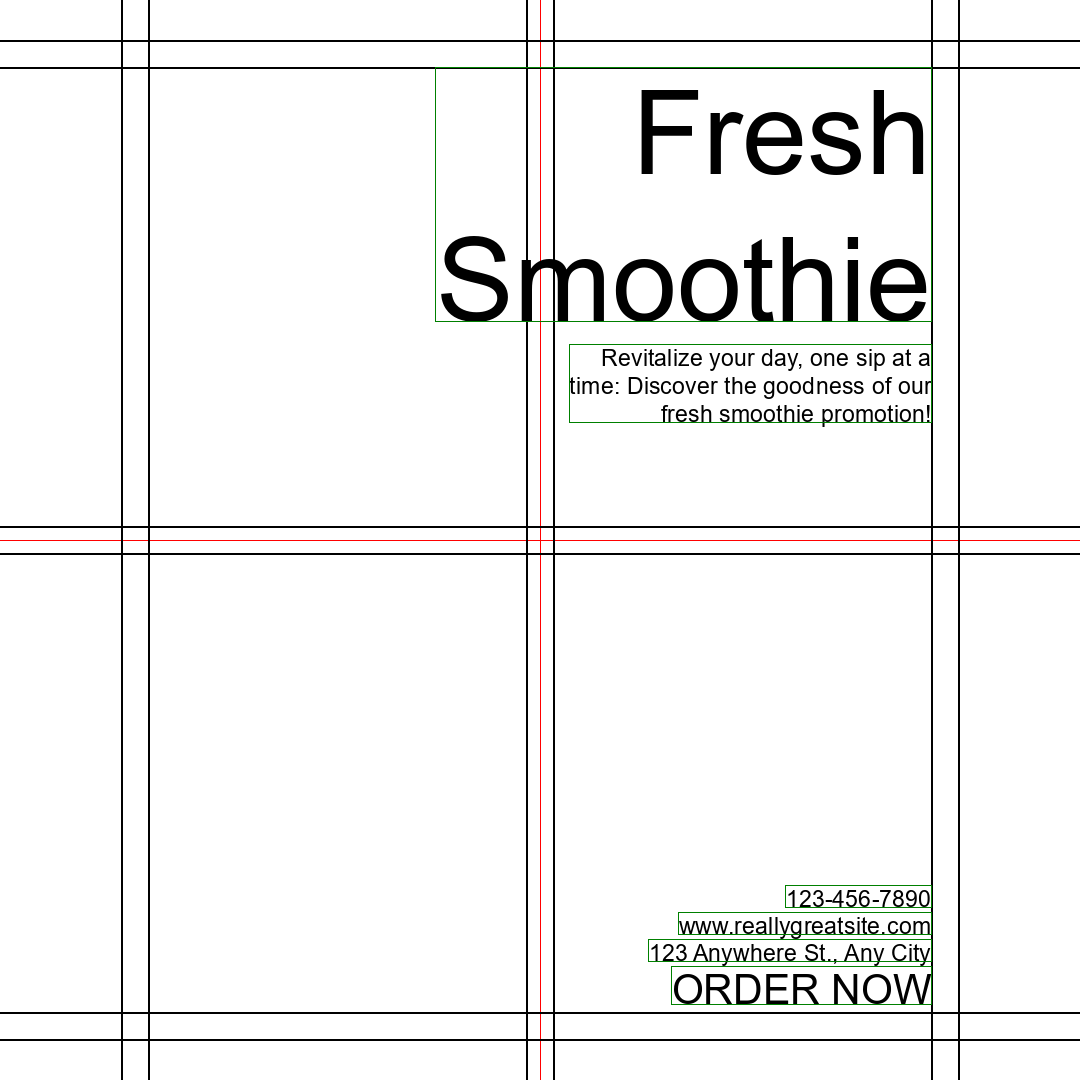
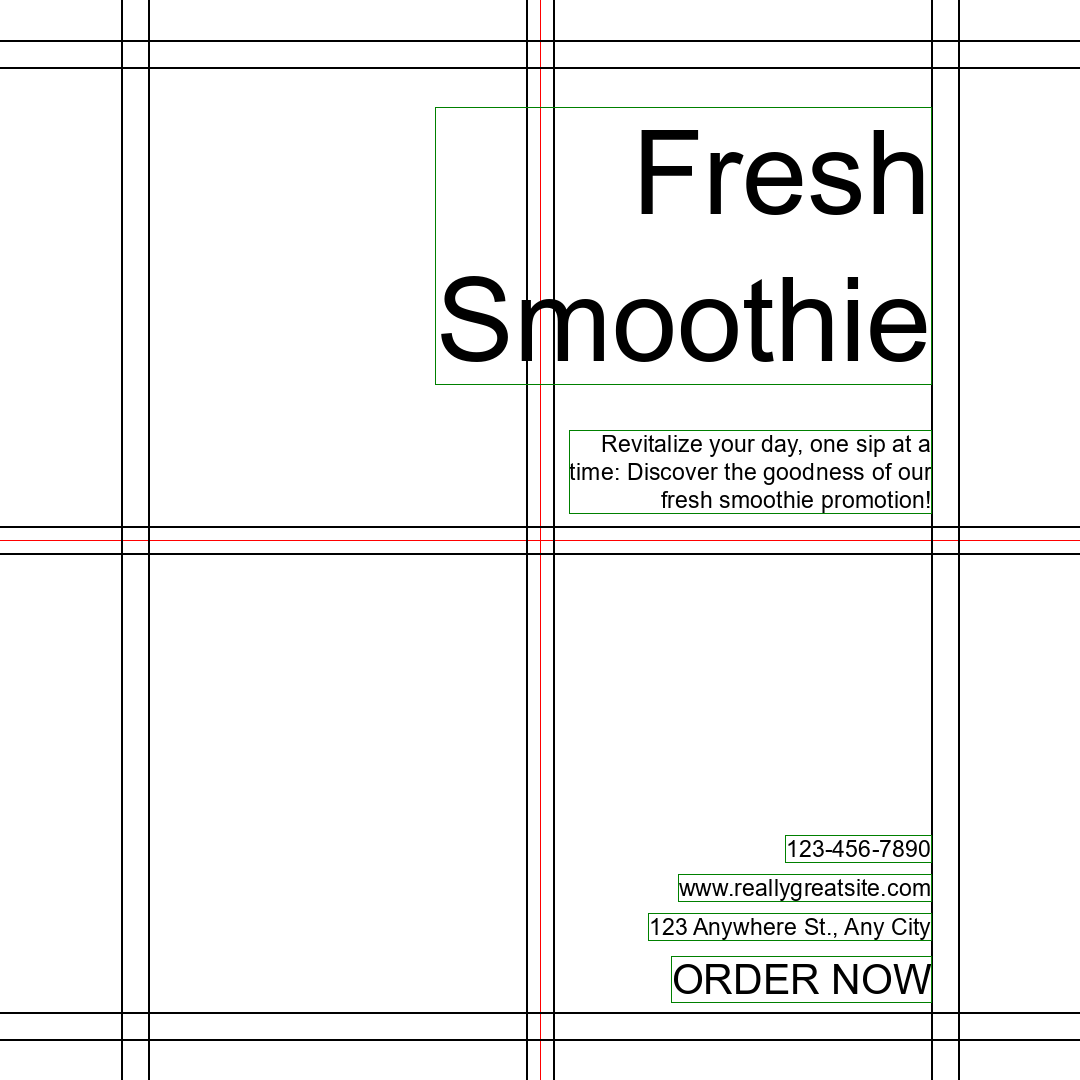
vertical spacing is sorted now

Changed region(s): [[0.3972, 0.0611, 0.8556, 0.4889], [0.5806, 0.7639, 0.8861, 0.9472]]

diff --git a/step4.py b/step4.py
@@ -14,6 +14,7 @@ with open('config.json', 'r') as f:
 prominence_ranges = [0.75,0.5,0.3,0.2,0.15,0.1]
 font_sizes = [1,0.6,0.35,0.2,0.15]
 line_spacing = [40,20,10,6,4]
+element_padding = [40,20,10,6,4]
 font_factor = 48.0
 
 class Grid(object):
@@ -237,7 +238,7 @@ def draw(width, height, font:ImageFont, grid:Grid, groups):
             ascent, descent = ft.getmetrics()
             (width, baseline), (offset_x, offset_y) = ft.font.getsize("A")
             line_height = ascent + descent
-            # y = y + 0.25 * font_sizes[prominence-1] * font_factor
+            y = y + element_padding[prominence-1]
             wrapper = TextWrapper(text, ft, col_spacing - 2 * half_gutter_spacing)
             wrapped_text = wrapper.wrapped_text()
             alignment_x = elements[i]['alignment_x']
@@ -260,9 +261,9 @@ def draw(width, height, font:ImageFont, grid:Grid, groups):
             elements[i]['align'] = align
             n_lines = wrapped_text.count("\n")+1
             # print(text, n_lines)
-            new_y = y + n_lines*ascent + (n_lines-1)*line_spacing[prominence-1]
+            new_y = y + n_lines*ascent + (n_lines-1)*line_spacing[prominence-1] + offset_y
             elements[i]['y_height'] = new_y - y
-            y = new_y + offset_y
+            y = new_y + element_padding[prominence-1]
             # y = y + xy3-xy1 +  0.5 * font_sizes[prominence-1] * font_factor
         for element in elements:
             prominence = element['prominence']
